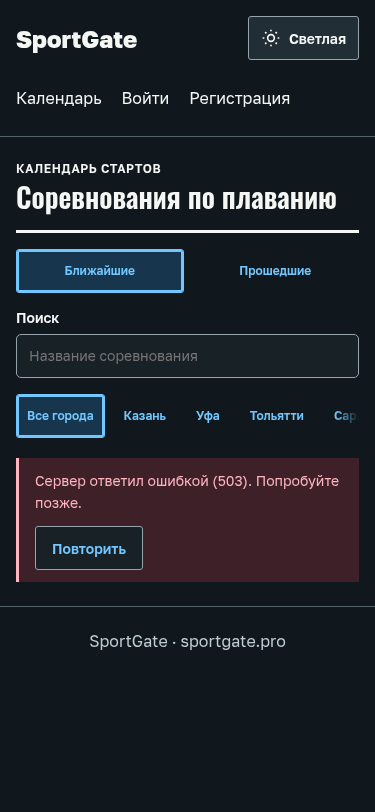
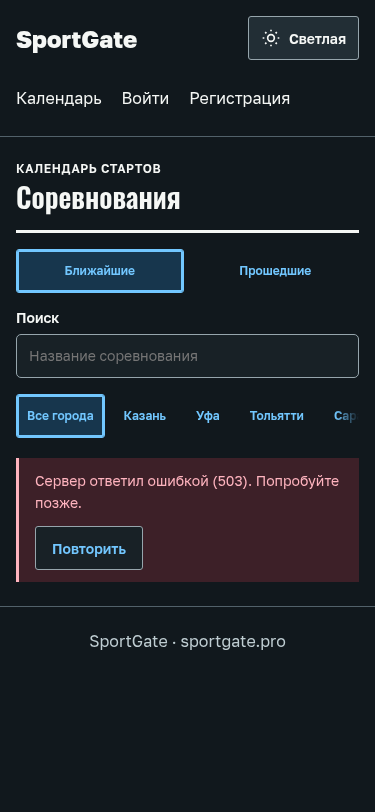
fix(calendar): use sport-neutral calendar wording

Changed region(s): [[0.4987, 0.2155, 0.9093, 0.2771]]

diff --git a/sport-platform/frontend/src/features/public/CalendarPage.tsx b/sport-platform/frontend/src/features/public/CalendarPage.tsx
@@ -26,7 +26,7 @@ export function CalendarPage() {
     setSearch(titleQuery)
   }
   const [cities, setCities] = useState<string[]>([])
-  useEffect(() => { document.title = 'Соревнования по плаванию · SportGate' }, [])
+  useEffect(() => { document.title = 'Соревнования · SportGate' }, [])
   useEffect(() => {
     if (search.trim() === titleQuery) return
     const timer = window.setTimeout(() => {
@@ -53,14 +53,15 @@ export function CalendarPage() {
     <Button variant="ghost" size="sm" aria-pressed={status === 'past'} onClick={() => change('status', 'past')}>Прошедшие</Button>
   </div>
   return <div className={styles.page}>
-    <div><p className={styles.eyebrow}>Календарь стартов</p><PageHeader title="Соревнования по плаванию" actions={segments} /></div>
+    <div><p className={styles.eyebrow}>Календарь стартов</p><PageHeader title="Соревнования" actions={segments} /></div>
     <div className={styles.filters}>
       <label className={`fl-field ${styles.citySelect}`}>Город<select aria-label="Город" value={city} onChange={e => change('city', e.target.value)}>
         <option value="">Все города</option>
         {[...new Set([...cities, ...(city ? [city] : [])])].map(name => <option key={name}>{name}</option>)}
       </select></label>
       <label className={`fl-field ${styles.search}`}>Поиск<input type="search" aria-label="Поиск по названию" placeholder="Название соревнования" value={search} onChange={e => setSearch(e.target.value)} maxLength={200} /></label>
-      <div className={styles.cities} role="group" aria-label="Город">
+      {/* Append sport chips beside cities once the API provides sports; render no placeholder. */}
+      <div className={styles.filterChips} role="group" aria-label="Город">
         <Button variant="ghost" size="sm" aria-pressed={!city} onClick={() => change('city', '')}>Все города</Button>
         {[...new Set([...cities, ...(city ? [city] : [])])].map(name => <Button key={name} variant="ghost" size="sm" aria-pressed={city === name} onClick={() => change('city', name)}>{name}</Button>)}
       </div>

diff --git a/sport-platform/frontend/src/features/public/CalendarCards.module.css b/sport-platform/frontend/src/features/public/CalendarCards.module.css
@@ -6,19 +6,19 @@
 .page :global(.fl-page-actions) { width: 100%; }
 .segments { display: flex; gap: var(--space-2); width: 100%; }
 .segments > button { flex: 1; white-space: nowrap; }
-.segments > button[aria-pressed='true'], .cities button[aria-pressed='true'] { border-color: var(--color-primary); background: var(--surface-3); }
+.segments > button[aria-pressed='true'], .filterChips button[aria-pressed='true'] { border-color: var(--color-primary); background: var(--surface-3); }
 .filters { display: grid; gap: var(--space-3); min-width: 0; }
 .citySelect { display: none; }
 .search { display: grid; gap: var(--space-2); }
 .search input { width: 100%; min-width: 0; }
 /* Local scroll hint from D04 section (д); black defines mask opacity. */
-.cities {
+.filterChips {
   display: flex; gap: var(--space-2); min-width: 0; padding-block: var(--space-1);
   overflow-x: auto; scrollbar-width: thin; overscroll-behavior-inline: contain;
   mask-image: linear-gradient(90deg, #000 calc(100% - var(--space-6)), transparent);
   scroll-padding-inline: var(--space-4); padding-inline-end: var(--space-6);
 }
-.cities > button { flex: 0 0 auto; }
+.filterChips > button { flex: 0 0 auto; }
 .count { color: var(--color-text-muted); font-size: var(--text-sm); margin: 0; font-variant-numeric: var(--numeric-variant); }
 .month { margin: 0; min-width: 0; }
 .month h2 { margin: 0 0 var(--space-3); font-size: var(--text-lg); line-height: var(--line-height-tight); }
@@ -50,7 +50,7 @@
   .filters { grid-template-columns: calc(var(--space-10) * 5) minmax(0, 1fr); align-items: end; }
   .citySelect { display: grid; gap: var(--space-2); }
   .citySelect select { width: 100%; }
-  .cities { display: none; }
+  .filterChips { display: none; }
   .cards { grid-template-columns: repeat(2, minmax(0, 1fr)); gap: var(--space-6); }
   .card { padding: var(--space-6); }
 }

diff --git a/sport-platform/frontend/src/features/public/Calendar.test.tsx b/sport-platform/frontend/src/features/public/Calendar.test.tsx
@@ -45,6 +45,11 @@ it('shows the empty state and sends past and title filters', async () => {
   }))
   calendar()
   expect(await screen.findByText('Соревнований не найдено')).toBeInTheDocument()
+  expect(screen.getByRole('heading', { name: 'Соревнования', level: 1 })).toBeInTheDocument()
+  expect(screen.getByText('Календарь стартов')).toBeInTheDocument()
+  expect(document.title).toBe('Соревнования · SportGate')
+  expect(screen.queryByText(/плавани/i)).not.toBeInTheDocument()
+  expect(screen.queryByRole('button', { name: /Вид спорта/ })).not.toBeInTheDocument()
   fireEvent.click(screen.getByRole('button', { name: 'Прошедшие' }))
   await waitFor(() => expect(requests.at(-1)?.searchParams.get('status')).toBe('past'))
   fireEvent.change(screen.getByLabelText('Поиск по названию'), { target: { value: 'Кубок' } })
@@ -83,7 +88,7 @@ it.each([
   expect(nav.getByRole('link', { name: label })).toHaveAttribute('href', path)
   expect(nav.queryByRole('link', { name: 'Кабинет' })).not.toBeInTheDocument()
   expect(nav.getByRole('button', { name: 'Выйти' })).toBeInTheDocument()
-  expect(await screen.findByRole('heading', { name: 'Соревнования по плаванию' })).toBeInTheDocument()
+  expect(await screen.findByRole('heading', { name: 'Соревнования' })).toBeInTheDocument()
 })
 it('directory offers login and registration to guests', () => {
   directory()
